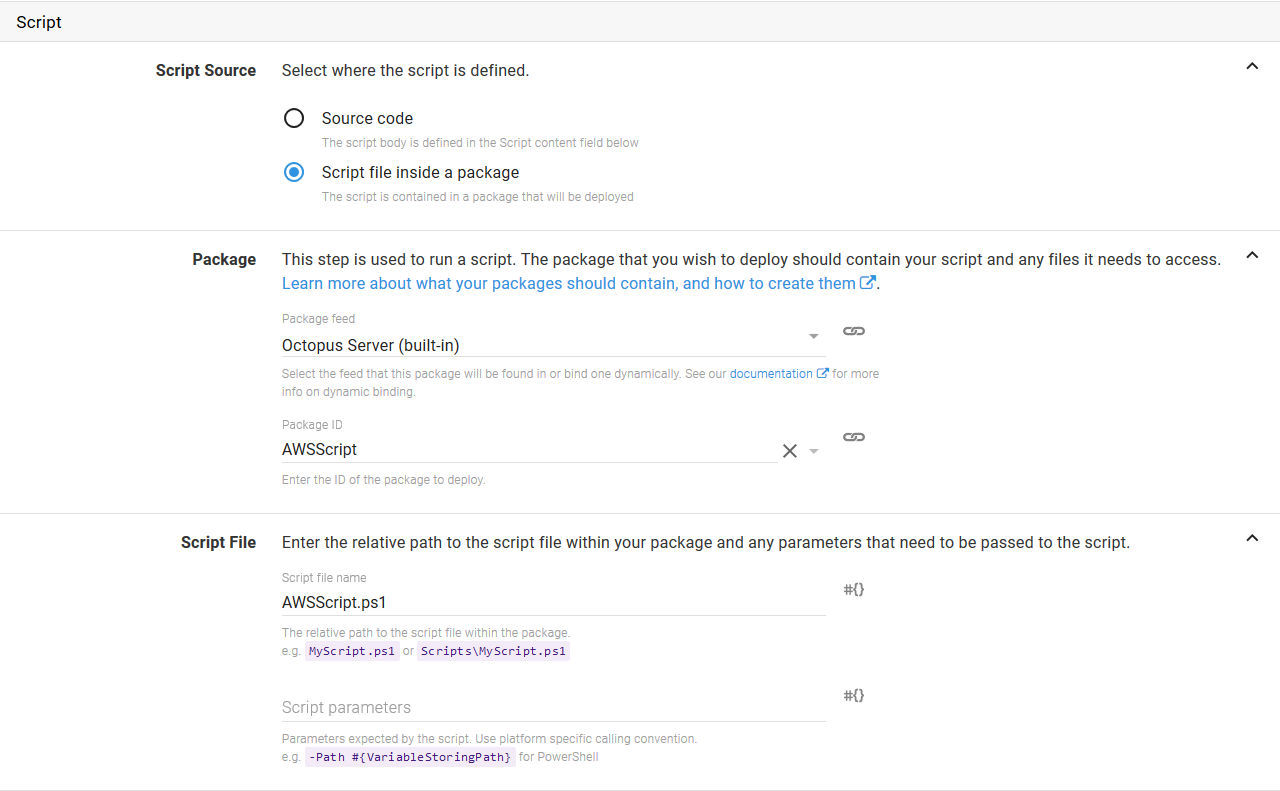
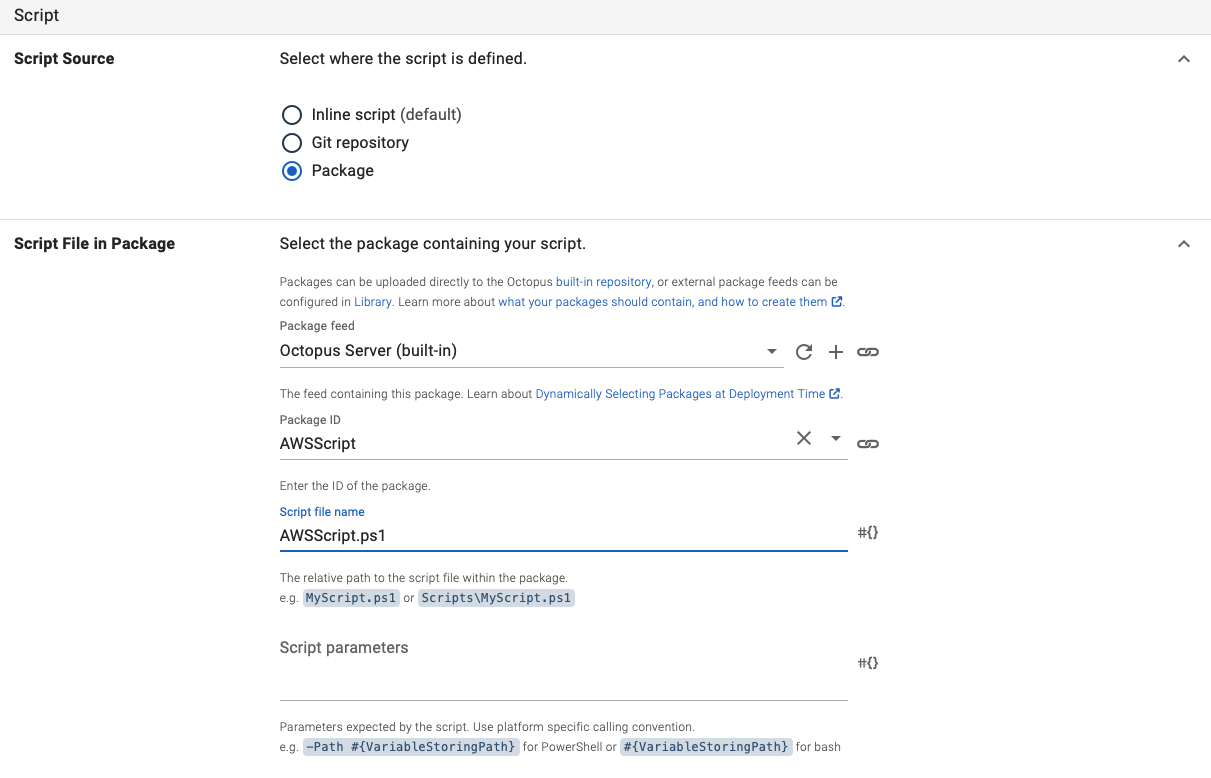
More script step updates

diff --git a/src/pages/docs/deployments/custom-scripts/aws-cli-scripts.md b/src/pages/docs/deployments/custom-scripts/aws-cli-scripts.md
@@ -100,17 +100,25 @@ Get-STSCallerIdentity | Select-Object -Property *
 
 Scripts can be run from two different locations: source code added to the step, or a script from a package.
 
-### Source code
+### Inline script
 
-The first option is to add the script source code to the step directly. This is done by selecting the `Source code` option, and entering the source code into the text box in the `Script Content` section.
+The first option is to add the script source code to the step directly. This is done by selecting the `Inline script` option, and entering the source code into the text box in the `Inline Source Code` section.
 
 :::figure
 ![Source Code](/docs/deployments/custom-scripts/images/step-aws-script.png)
 :::
 
+### Git repository
+
+The second option is to run a script from a git repositoryThis is done by selecting the `Git repository` option, configuring the repository details, and entering the path name of the script file to run.
+
+:::figure
+![AWS script git repository](/docs/deployments/custom-scripts/images/step-aws-git.png)
+:::
+
 ### Package
 
-The second option is to run a script from a package. This is done by selecting the `Script file inside a package` option, selecting the package, and entering the name of the file within the package to run as a PowerShell script.
+The third option is to run a script from a package. This is done by selecting the `Package` option, selecting the package, and entering the name of the script file within the package to run.
 
 :::figure
 ![AWS script package](/docs/deployments/custom-scripts/images/step-aws-package.png)

diff --git a/src/pages/docs/deployments/custom-scripts/azure-powershell-scripts.md b/src/pages/docs/deployments/custom-scripts/azure-powershell-scripts.md
@@ -73,4 +73,4 @@ Remove-AzureWebsite -Name #{WebSite} -Slot Staging -Force
 New-AzureWebsite -Name #{WebSite} -Slot Staging
 ```
 
-![](/docs/deployments/custom-scripts/images/5865518.png)
+![](/docs/deployments/custom-scripts/images/create-staging-slot.png)
